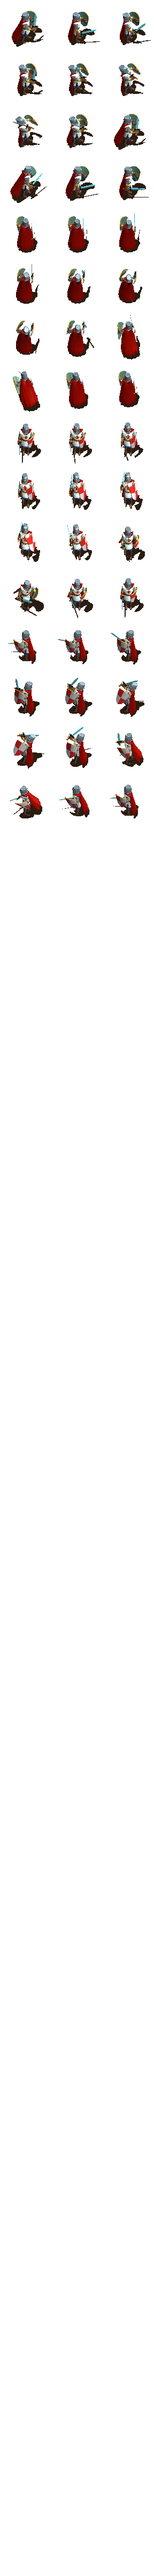
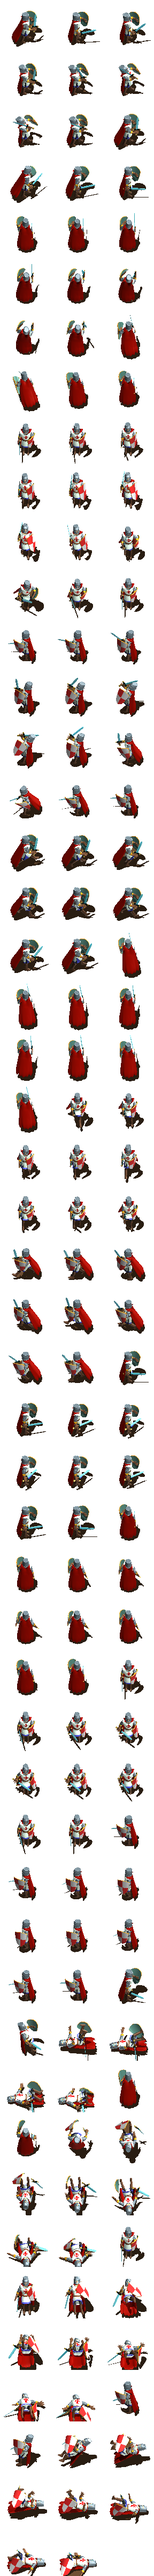
Adding team functionality

Changed region(s): [[0.0625, 0.3125, 0.2812, 1.0], [0.375, 0.3125, 0.625, 1.0], [0.7188, 0.3125, 0.9688, 1.0]]

diff --git a/unitManager.cpp b/unitManager.cpp
@@ -25,7 +25,7 @@ void UnitManager::initialize(Game *gamePtr, Graphics* graphics){
 	if(!infantryTexture.initialize(graphics,"pictures\\greenKnight.png")){
 		throw(GameError(gameErrorNS::FATAL_ERROR, "Error initializing greenKnight texture"));
 	}
-	if (!infantryTexture2.initialize(graphics,"pictures\\greenKnight.png")){
+	if (!infantryTexture2.initialize(graphics,"pictures\\redKnight.png")){
 		throw(GameError(gameErrorNS::FATAL_ERROR, "Error initializing redKnight texture"));
 	}
 	player1Infantry = new Infantry[10];
@@ -78,7 +78,8 @@ void UnitManager::onLostDevice(){
 	infantryTexture2.onLostDevice();
 }
 
-void UnitManager::spawnInfantry(int x, int y){
+void UnitManager::spawnInfantry(int x, int y, int team){
+	if(team == 1){
 	for(int i = 0; i < 10; i++){
 		if(!player1Infantry[i].getActive()){
 			player1Infantry[i].setActive(true);
@@ -89,6 +90,20 @@ void UnitManager::spawnInfantry(int x, int y){
 			selectUnit(&player1Infantry[i]);
 			break;
 		}
+	}
+	}
+	else if(team == 2){
+			for(int i = 0; i < 10; i++){
+		if(!player2Infantry[i].getActive()){
+			player2Infantry[i].setActive(true);
+			player2Infantry[i].setVisible(true);
+			player2Infantry[i].setTile(x, y);
+			player2Infantry[i].setX(x*TERRAIN_WIDTH);
+			player2Infantry[i].setY(y*TERRAIN_HEIGHT);
+			selectUnit(&player2Infantry[i]);
+			break;
+		}
+	}
 	}
 }
 

diff --git a/primoVictoria.cpp b/primoVictoria.cpp
@@ -277,13 +277,13 @@ void PrimoVictoria::spawnUnit(int unitType){
 		if(!(tileManager.getTile(0, 3 + (std::pow((-1),i)) * ((i+1)/2))->isOccupied())){
 			switch(unitType){
 			case 0:
-				unitManager.spawnInfantry(0, 3 + (std::pow((-1),i)) * ((i+1)/2));
+				unitManager.spawnInfantry(0, 2 + (std::pow((-1),i)) * ((i+1)/2), 2);
 				break;
 			case 1:
-				unitManager.spawnInfantry(0, 3 + (std::pow((-1),i)) * ((i+1)/2));
+				unitManager.spawnInfantry(0, 2 + (std::pow((-1),i)) * ((i+1)/2), 2);
 				break;
 			case 2:
-				unitManager.spawnInfantry(0, 3 + (std::pow((-1),i)) * ((i+1)/2));
+				unitManager.spawnInfantry(0, 2 + (std::pow((-1),i)) * ((i+1)/2), 2);
 				break;
 			}
 			tileManager.getTile(0, 3 + (std::pow((-1),i)) * ((i+1)/2))->occupy(unitManager.getCurrentSelection());

diff --git a/infantry.cpp b/infantry.cpp
@@ -28,12 +28,16 @@ void Infantry::update(float frameTime){
 		switch(getLastDirection()){
 		case up:
 			setFrames(INFANTRY_IDLE_UP_START, INFANTRY_IDLE_UP_END);
+			break;
 		case left:
 			setFrames(INFANTRY_IDLE_LEFT_START, INFANTRY_IDLE_LEFT_END);
+			break;
 		case down:
 			setFrames(INFANTRY_IDLE_DOWN_START, INFANTRY_IDLE_DOWN_END);
+			break;
 		case right:
 			setFrames(INFANTRY_IDLE_RIGHT_START, INFANTRY_IDLE_RIGHT_END);
+			break;
 		}
 	}
 	setX(getX()+getVelocity().x*INFANTRY_SPEED*frameTime);

diff --git a/unitManager.h b/unitManager.h
@@ -18,7 +18,7 @@ public:
 	void update(float frameTime);
 	void onResetDevice();
 	void onLostDevice();
-	void spawnInfantry(int x, int y);
+	void spawnInfantry(int x, int y, int team);
 	bool fight(Unit& opponent, float frameTime);
 	Unit* getCurrentSelection(){return currentSelection;}
 	int getSelectionX(){return selectionX;}
